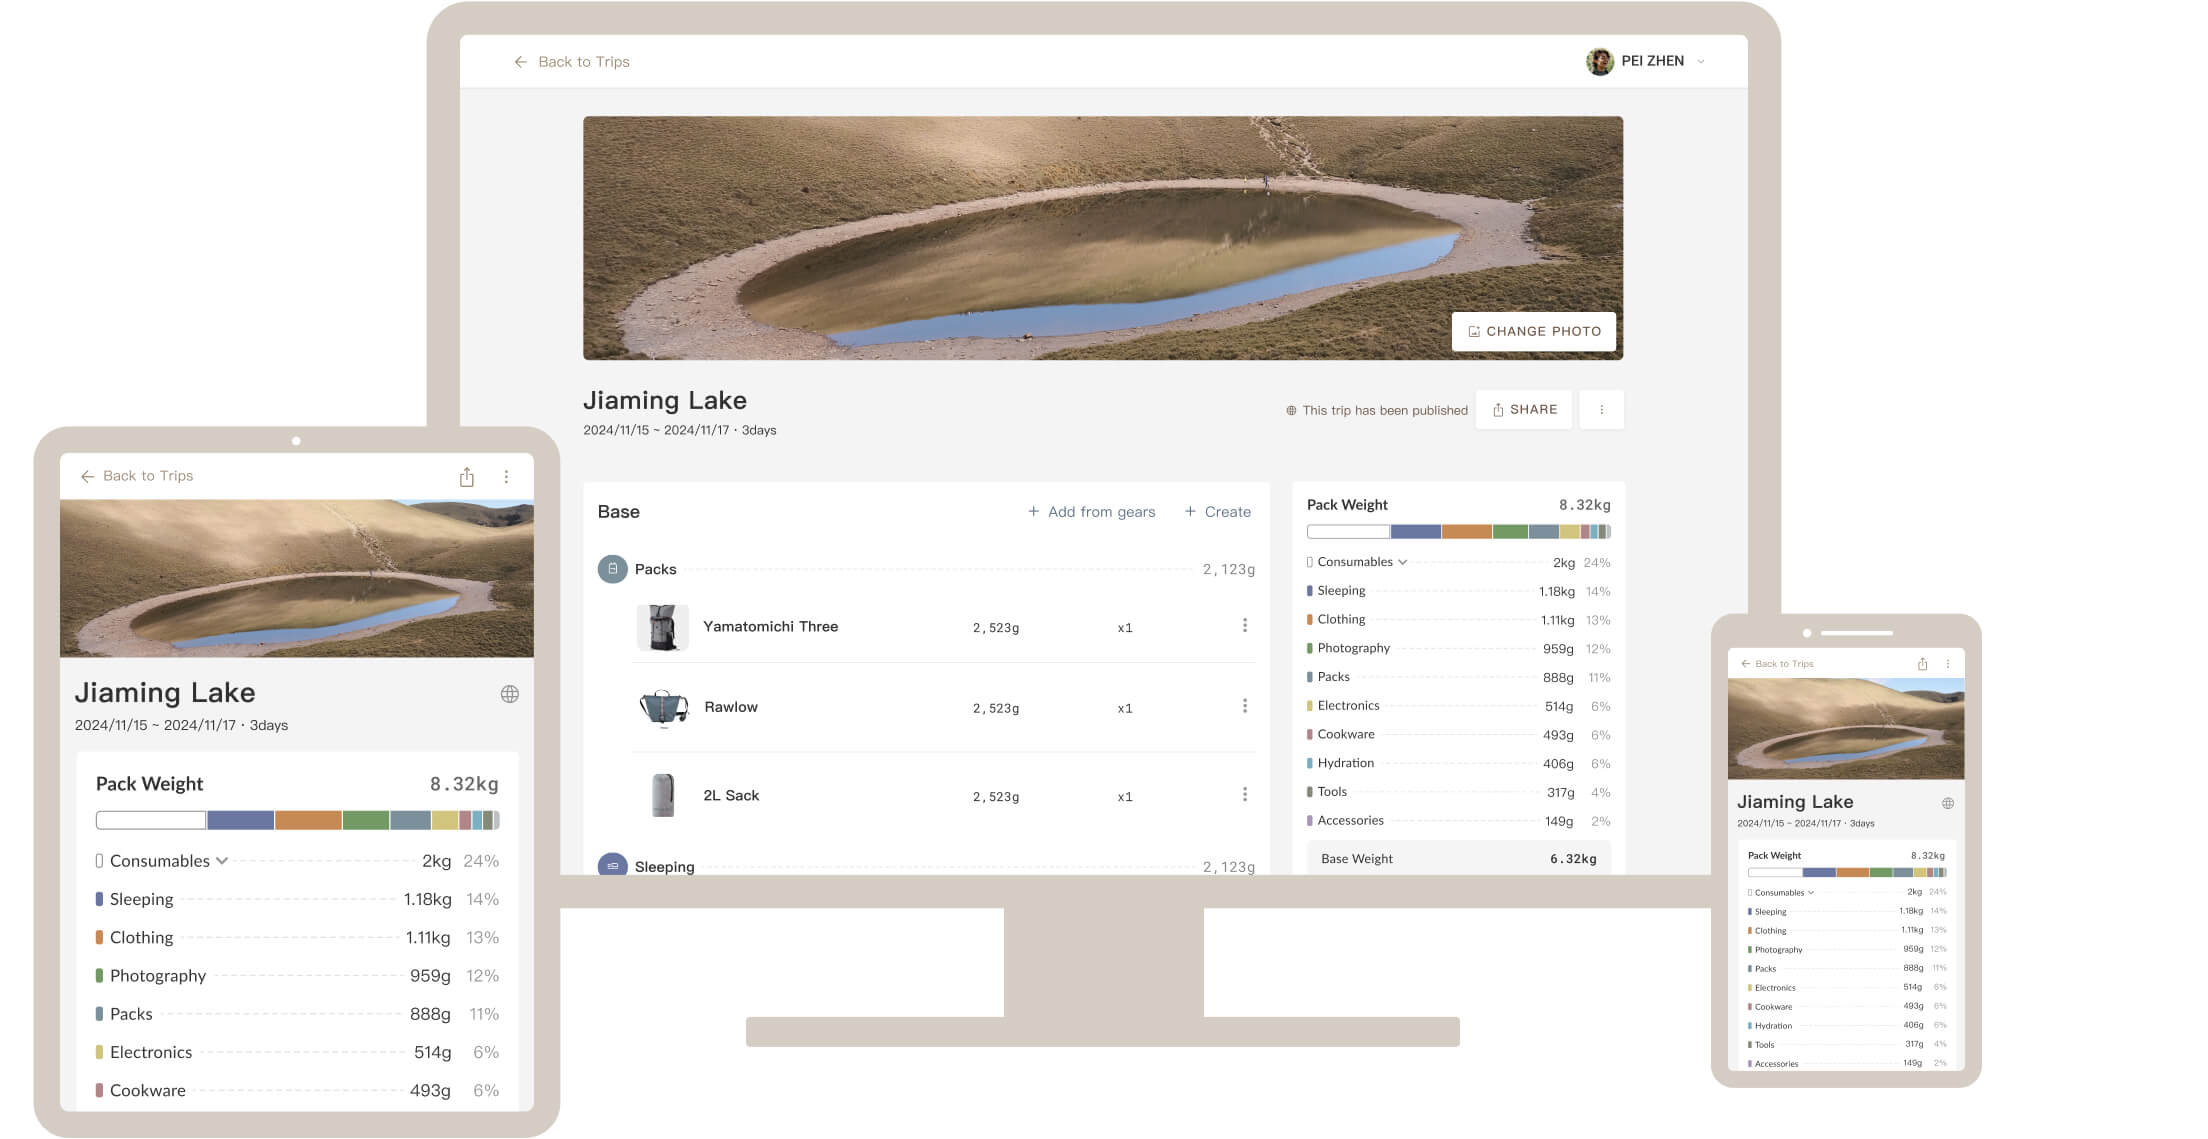
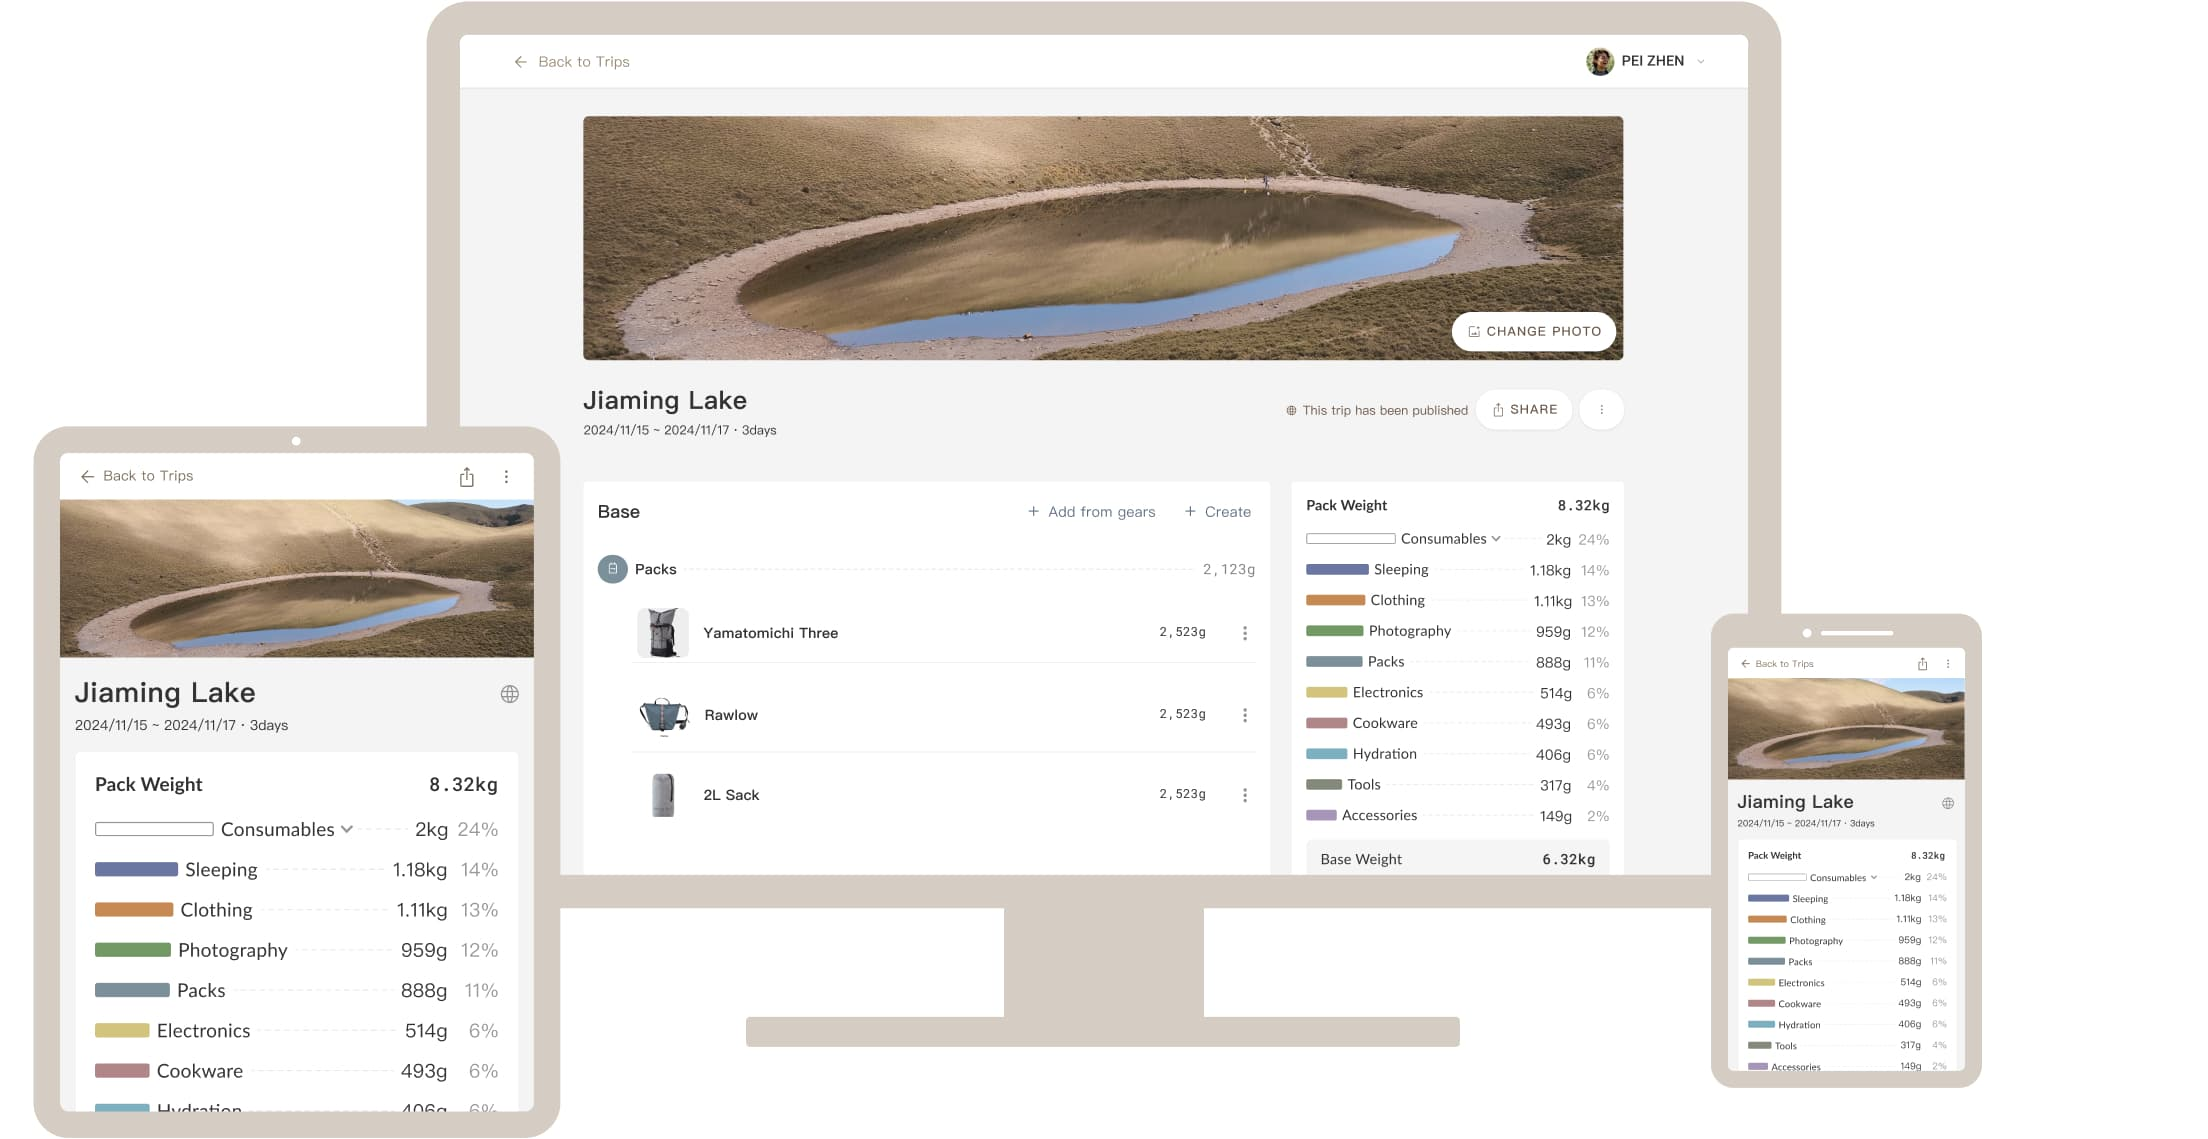
feat: update weight chart (#8)
* feat: update homepage images

* feat: update trip weight bar chart

* featL update homepage images

---------

diff --git a/components/WeightBarChart.vue b/components/WeightBarChart.vue
@@ -1,31 +1,5 @@
 <template>
     <div class="weight-bar-chart flex flex-column gap-3">
-        <!-- bar -->
-        <div class="weight-bar-chart__bar">
-            <div
-                v-if="barSectionItems.length && totalWeight > 0"
-                v-for="item in barSectionItems"
-                v-tooltip.top="
-                    `${item.label} ${formatWeight(item.weight)} (${_round((item.weight / totalWeight) * 100)}%)`
-                "
-                :class="[
-                    'weight-bar-chart__section',
-                    { 'border-1 border-solid border-500': item.addBorder },
-                ]"
-                :style="{
-                    backgroundColor: item.color,
-                    width: `${(item.weight / totalWeight) * 100}%`,
-                }"
-            />
-            <div
-                v-else
-                class="weight-bar-chart__section w-full"
-                :style="{
-                    backgroundColor: constants.COLORS.EMPTY_WEIGHT,
-                }"
-            ></div>
-        </div>
-
         <!-- labels -->
         <div v-if="showLabel" class="flex flex-column gap-1">
             <div v-for="(item, index) in sortedItems" :key="item.label">
@@ -37,16 +11,16 @@
                     @click="itemsToggle[index] = !itemsToggle[index]"
                 >
                     <div
-                        :class="[
-                            'weight-bar-chart__dot',
-                            {
-                                'border-1 border-solid border-500':
-                                    item.addBorder,
-                            },
-                        ]"
-                        :style="{ backgroundColor: item.color }"
+                        class="weight-bar-chart__bar"
+                        :style="{
+                            backgroundColor: item.color,
+                            width: getBarWidth(item.weight),
+                            outline: item.addBorder
+                                ? '1px solid var(--gray-500)'
+                                : '',
+                        }"
                     ></div>
-                    <div>
+                    <div class="text-ellipsis flex-shrink-1">
                         {{ item.label }}
                         <span
                             v-if="item.subItems"
@@ -60,8 +34,12 @@
                         ></span>
                     </div>
                     <DashedLine />
-                    <div>{{ formatWeight(item.weight) }}</div>
-                    <div class="w-2rem text-color-light text-right">
+                    <div class="white-space-nowrap">
+                        {{ formatWeight(item.weight) }}
+                    </div>
+                    <div
+                        class="w-2rem text-color-light text-right white-space-nowrap"
+                    >
                         {{
                             _round(
                                 (totalWeight ? item.weight / totalWeight : 0) *
@@ -113,9 +91,6 @@ const totalWeight = computed(() =>
 const sortedItems = computed(() =>
     props.items.sort((a, b) => b.weight - a.weight),
 );
-const barSectionItems = computed(() =>
-    sortedItems.value.filter((item) => item.weight > 0),
-);
 const itemsToggle = ref<Record<number, boolean>>(
     props.items.reduce(
         (acc, item, index) => {
@@ -125,15 +100,23 @@ const itemsToggle = ref<Record<number, boolean>>(
         {} as Record<number, boolean>,
     ),
 );
+const maxItemWeight = computed(() =>
+    Math.max(...props.items.map((item) => item.weight), 0),
+);
+const getBarWidth = (weight: number) => {
+    if (
+        props.items.length <= 1 ||
+        totalWeight.value === 0 ||
+        maxItemWeight.value === 0
+    ) {
+        return '';
+    }
+    return `${(weight / maxItemWeight.value) * 140}px`;
+};
 </script>
 
 <style lang="scss">
 .weight-bar-chart {
-    &__bar {
-        display: flex;
-        gap: 2px;
-        height: 16px;
-    }
     &__section {
         flex: 1 1 auto;
         transition: all 0.3s;
@@ -150,10 +133,13 @@ const itemsToggle = ref<Record<number, boolean>>(
             transform: scaleY(1.2);
         }
     }
-    &__dot {
-        width: 6px;
+    &__bar {
+        max-width: 140px;
+        min-width: 6px;
         height: 12px;
         border-radius: 2px;
+        flex-shrink: 0;
+        transition: all 0.3s;
     }
 }
 </style>

diff --git a/components/WeightDistributionBar.vue b/components/WeightDistributionBar.vue
@@ -1,0 +1,45 @@
+<template>
+    <div class="weight-distribution-bar">
+        <div
+            v-if="items.length && totalWeight > 0"
+            v-for="item in items"
+            :key="item.label"
+            v-tooltip.top="
+                `${item.label} ${formatWeight(item.weight)} (${_round((item.weight / totalWeight) * 100)}%)`
+            "
+            :class="[
+                'weight-bar-chart__section',
+                { 'border-1 border-solid border-500': item.addBorder },
+            ]"
+            :style="{
+                backgroundColor: item.color,
+                width: `${(item.weight / totalWeight) * 100}%`,
+            }"
+        ></div>
+        <div
+            v-else
+            class="weight-bar-chart__section w-full"
+            :style="{
+                backgroundColor: constants.COLORS.EMPTY_WEIGHT,
+            }"
+        ></div>
+    </div>
+</template>
+
+<script lang="ts" setup>
+const props = defineProps<{
+    items: WeightBarChartItem[];
+}>();
+const { formatWeight } = useLangUtils();
+const totalWeight = computed(() =>
+    props.items.reduce((acc, item) => acc + item.weight, 0),
+);
+</script>
+
+<style lang="scss">
+.weight-distribution-bar {
+    display: flex;
+    gap: 2px;
+    height: 16px;
+}
+</style>

diff --git a/pages/trip-share/[id].vue b/pages/trip-share/[id].vue
@@ -97,6 +97,7 @@
 
             <!-- worn gears -->
             <TripGearSection
+                v-if="wornGearsInTrip.length > 0"
                 :title="$t('LABEL_WORN_GEARS')"
                 :gears="wornGearsInTrip"
             >
